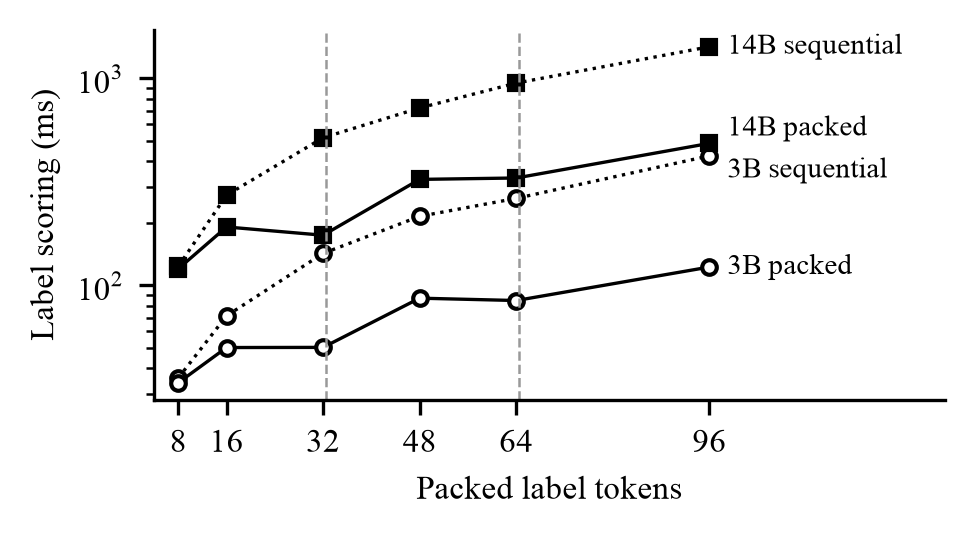
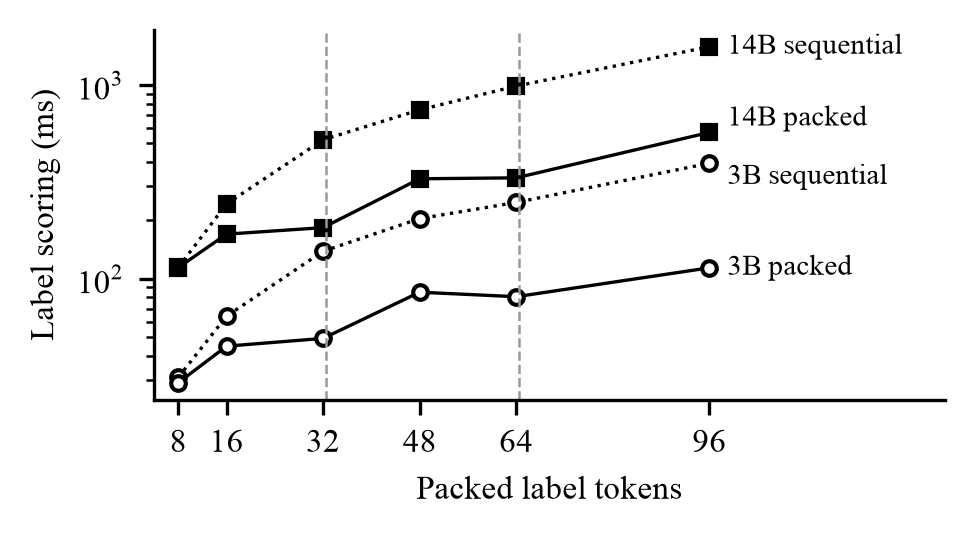
packed-token sweep on 50 benchmark inputs per model; paper, REPRODUCE and sweep plot updated

diff --git a/docs/paper/make_docx.py b/docs/paper/make_docx.py
@@ -245,10 +245,10 @@ body("The staircase prices the label passes badly: 14 passes, each paying nearly
      "Tokens at the same depth share a rotary position, which we apply per depth group. Fig. 1(b) prices "
      "this pass at $t$(48), predicting 0.116 s (3B) and 0.442 s (14B) for the stage. Measured medians over "
      "300 inputs were 0.127 and 0.512 s.")
-body("With synthetic label sets of 8 to 96 tokens (5-token labels, 5 inputs), packed time was flat from 16 to 32 and from 48 to 64 "
-     "tokens, and the gain over sequential scoring grew from 1.0× at 8 tokens to 3.4× (3B) and 2.9× (14B) at 96. "
-     "Packed and sequential scores differed by at most 0.047 nats; a causal mask across labels or "
-     "consecutive positions changed them by 1.2 to 10 nats.")
+body("With synthetic label sets of 8 to 96 tokens (5-token labels, 50 benchmark inputs), packed time was "
+     "flat from 16 to 32 and from 48 to 64 tokens, and the median gain over sequential scoring grew from "
+     "1.0× at 8 tokens to 3.5× (3B) and 2.8× (14B) at 96. Packed and sequential scores differed by at most "
+     "0.067 nats; a causal mask across labels or consecutive positions changed them by 0.6 to 13 nats.")
 
 heading("VI", "Memory")
 body("Each token's cache entry occupies")
@@ -271,7 +271,7 @@ body("A packed 14B classification costs as much as decoding about 18 tokens; a d
 
 heading("VIII", "Limitations and Conclusion")
 body("One packed pass halved the cached latency. Results come from one machine, slow baselines cover "
-     "fewer inputs, and accuracy covers five of 14 techniques. Code and data: github.com/devansh-gr/Litmus (tag paper-v2).")
+     "fewer inputs, and accuracy covers five of 14 techniques. Code and data: github.com/devansh-gr/Litmus (tag paper-v3).")
 
 # ---------- references ----------
 REFS = {

diff --git a/server/bench/packed_sweep.py b/server/bench/packed_sweep.py
@@ -15,10 +15,12 @@ from bench.prefix_cache_bench import score_from
 from bench.packed import install, packed_scores
 
 ap = argparse.ArgumentParser(); ap.add_argument("--model", required=True); ap.add_argument("--inputs", type=int, default=5)
+ap.add_argument("--data", default=None, help="jsonl of {text}; default: bench/latency_bench.py SAMPLES")
 a = ap.parse_args()
 model, tok = load(a.model); install(model)
+texts = [json.loads(l)["text"] for l in open(a.data)] if a.data else SAMPLES
 enc = lambda t, sp=True: tok.encode(t, add_special_tokens=sp)
-prompts = [enc(s._chat_prompt(tok, t, s.SYSTEM, s.TECHNIQUE_FEWSHOT)) for t in SAMPLES[:a.inputs]]
+prompts = [enc(s._chat_prompt(tok, t, s.SYSTEM, s.TECHNIQUE_FEWSHOT)) for t in texts[:a.inputs]]
 static_len = min(next(i for i, (x, y) in enumerate(zip(prompts[0], p)) if x != y) for p in prompts[1:])
 cache = make_prompt_cache(model); mx.eval(model(mx.array([prompts[0][:static_len]]), cache=cache))
 vocab = sorted({t for v in s.VECTORS for t in enc(v, False)} | {t for p in prompts for t in p[static_len:]})

diff --git a/docs/paper/make_sweep_fig.py b/docs/paper/make_sweep_fig.py
@@ -6,7 +6,7 @@ import matplotlib.pyplot as plt
 plt.rcParams.update({"font.family": "serif", "font.serif": ["Times New Roman", "STIXGeneral"],
                      "mathtext.fontset": "stix", "font.size": 8, "axes.spines.top": False,
                      "axes.spines.right": False, "axes.linewidth": 0.8, "legend.frameon": False})
-rows = [json.loads(l) for l in open(Path(__file__).parents[2] / "server/bench/results/packed_sweep_2026-11-15.jsonl")]
+rows = [json.loads(l) for l in open(Path(__file__).parents[2] / "server/bench/results/packed_sweep_50_2026-11-15.jsonl")]
 fig, ax = plt.subplots(figsize=(3.4, 1.6))
 for tag, mk, fc in (("3B", "o", "white"), ("14B", "s", "black")):
     r = [x for x in rows if (("3B" in x["model"]) if tag == "3B" else ("14B" in x["model"]))]

diff --git a/docs/paper/REPRODUCE.md b/docs/paper/REPRODUCE.md
@@ -3,7 +3,7 @@
 Every number in the paper comes from a script in `server/bench/` and a raw result file in
 `server/bench/results/`. Nothing below is hand-entered.
 
-Fixed version for the paper: git tag `paper-v2`. Data split: `server/tests/data/external_test.jsonl`
+Fixed version for the paper: git tag `paper-v3`. Data split: `server/tests/data/external_test.jsonl`
 (300) = `external_dev.jsonl` (150, used to tune prompts and thresholds) + `external_holdout.jsonl`
 (150, never used for tuning; all accuracy in the paper is holdout-only). Classes: 5 of the 14
 techniques plus `none`.
@@ -43,24 +43,26 @@ Run from `server/`:
 | Packed-token sweep and broken controls | `.venv/bin/python bench/packed_sweep.py --model <ckpt>` | `packed_sweep_2026-11-15.jsonl` |
 
 Benchmark inputs: `server/tests/data/external_test.jsonl` (300 public examples); the 150 that
-also appear in `external_holdout.jsonl` played no part in tuning. The sweep uses the first 5 inputs of `bench/latency_bench.py`
-and synthetic label sets of K labels x 5 tokens drawn with seed 0 from the label and input
-vocabulary, giving 8 to 96 packed tokens.
+also appear in `external_holdout.jsonl` played no part in tuning. The sweep uses the first 50 inputs of `external_test.jsonl` (`--inputs 50 --data
+tests/data/external_test.jsonl`) and synthetic label sets of K labels x 5 tokens drawn with seed 0
+from the label and input vocabulary, giving 8 to 96 packed tokens. Output:
+`packed_sweep_50_2026-11-15.jsonl` (an earlier 5-input run is `packed_sweep_2026-11-15.jsonl`).
 
 ## Sweep result (`fig_sweep.png`)
-Speedup of packed over sequential scoring, range over 5 inputs:
+Speedup of packed over sequential scoring per input, median (5th to 95th percentile), 50 inputs:
 
 | Packed tokens | 3B | 14B |
 |---|---|---|
-| 8 | 1.05 to 1.45 | 0.99 to 1.07 |
-| 16 | 1.41 to 1.43 | 1.40 to 1.48 |
-| 32 | 2.80 to 2.85 | 2.74 to 2.97 |
-| 48 | 2.48 to 2.53 | 2.21 to 2.22 |
-| 64 | 3.09 to 3.18 | 2.86 to 2.89 |
-| 96 | 3.43 to 3.54 | 2.92 to 2.95 |
+| 8 | 1.06 (1.04 to 1.10) | 1.00 (0.97 to 1.03) |
+| 16 | 1.43 (1.37 to 1.47) | 1.44 (1.39 to 1.45) |
+| 32 | 2.80 (2.64 to 2.97) | 2.82 (2.68 to 3.03) |
+| 48 | 2.40 (2.26 to 2.55) | 2.27 (2.05 to 2.36) |
+| 64 | 3.06 (2.90 to 3.19) | 2.98 (2.79 to 3.12) |
+| 96 | 3.46 (3.26 to 3.52) | 2.81 (2.46 to 3.07) |
 
-Max packed vs sequential score difference: 0.025 nats (3B), 0.047 (14B). Broken controls:
-1.2 to 10 nats. Top label agreed on all 60 comparisons.
+Max packed vs sequential score difference: 0.027 nats (3B), 0.067 (14B). Broken controls: 0.64 to
+12.9 nats. Top label agreed on 597 of 600 comparisons; the 3 disagreements are synthetic random-token
+labels, where near-ties are common. On the real label set, packing changed 0 of 300 decisions.
 
 ## Decision changes, by cause (300 inputs)
 - Deployed vs cached prefix: 3 of 300 on the 3B (two gate probabilities within 0.003 of the
